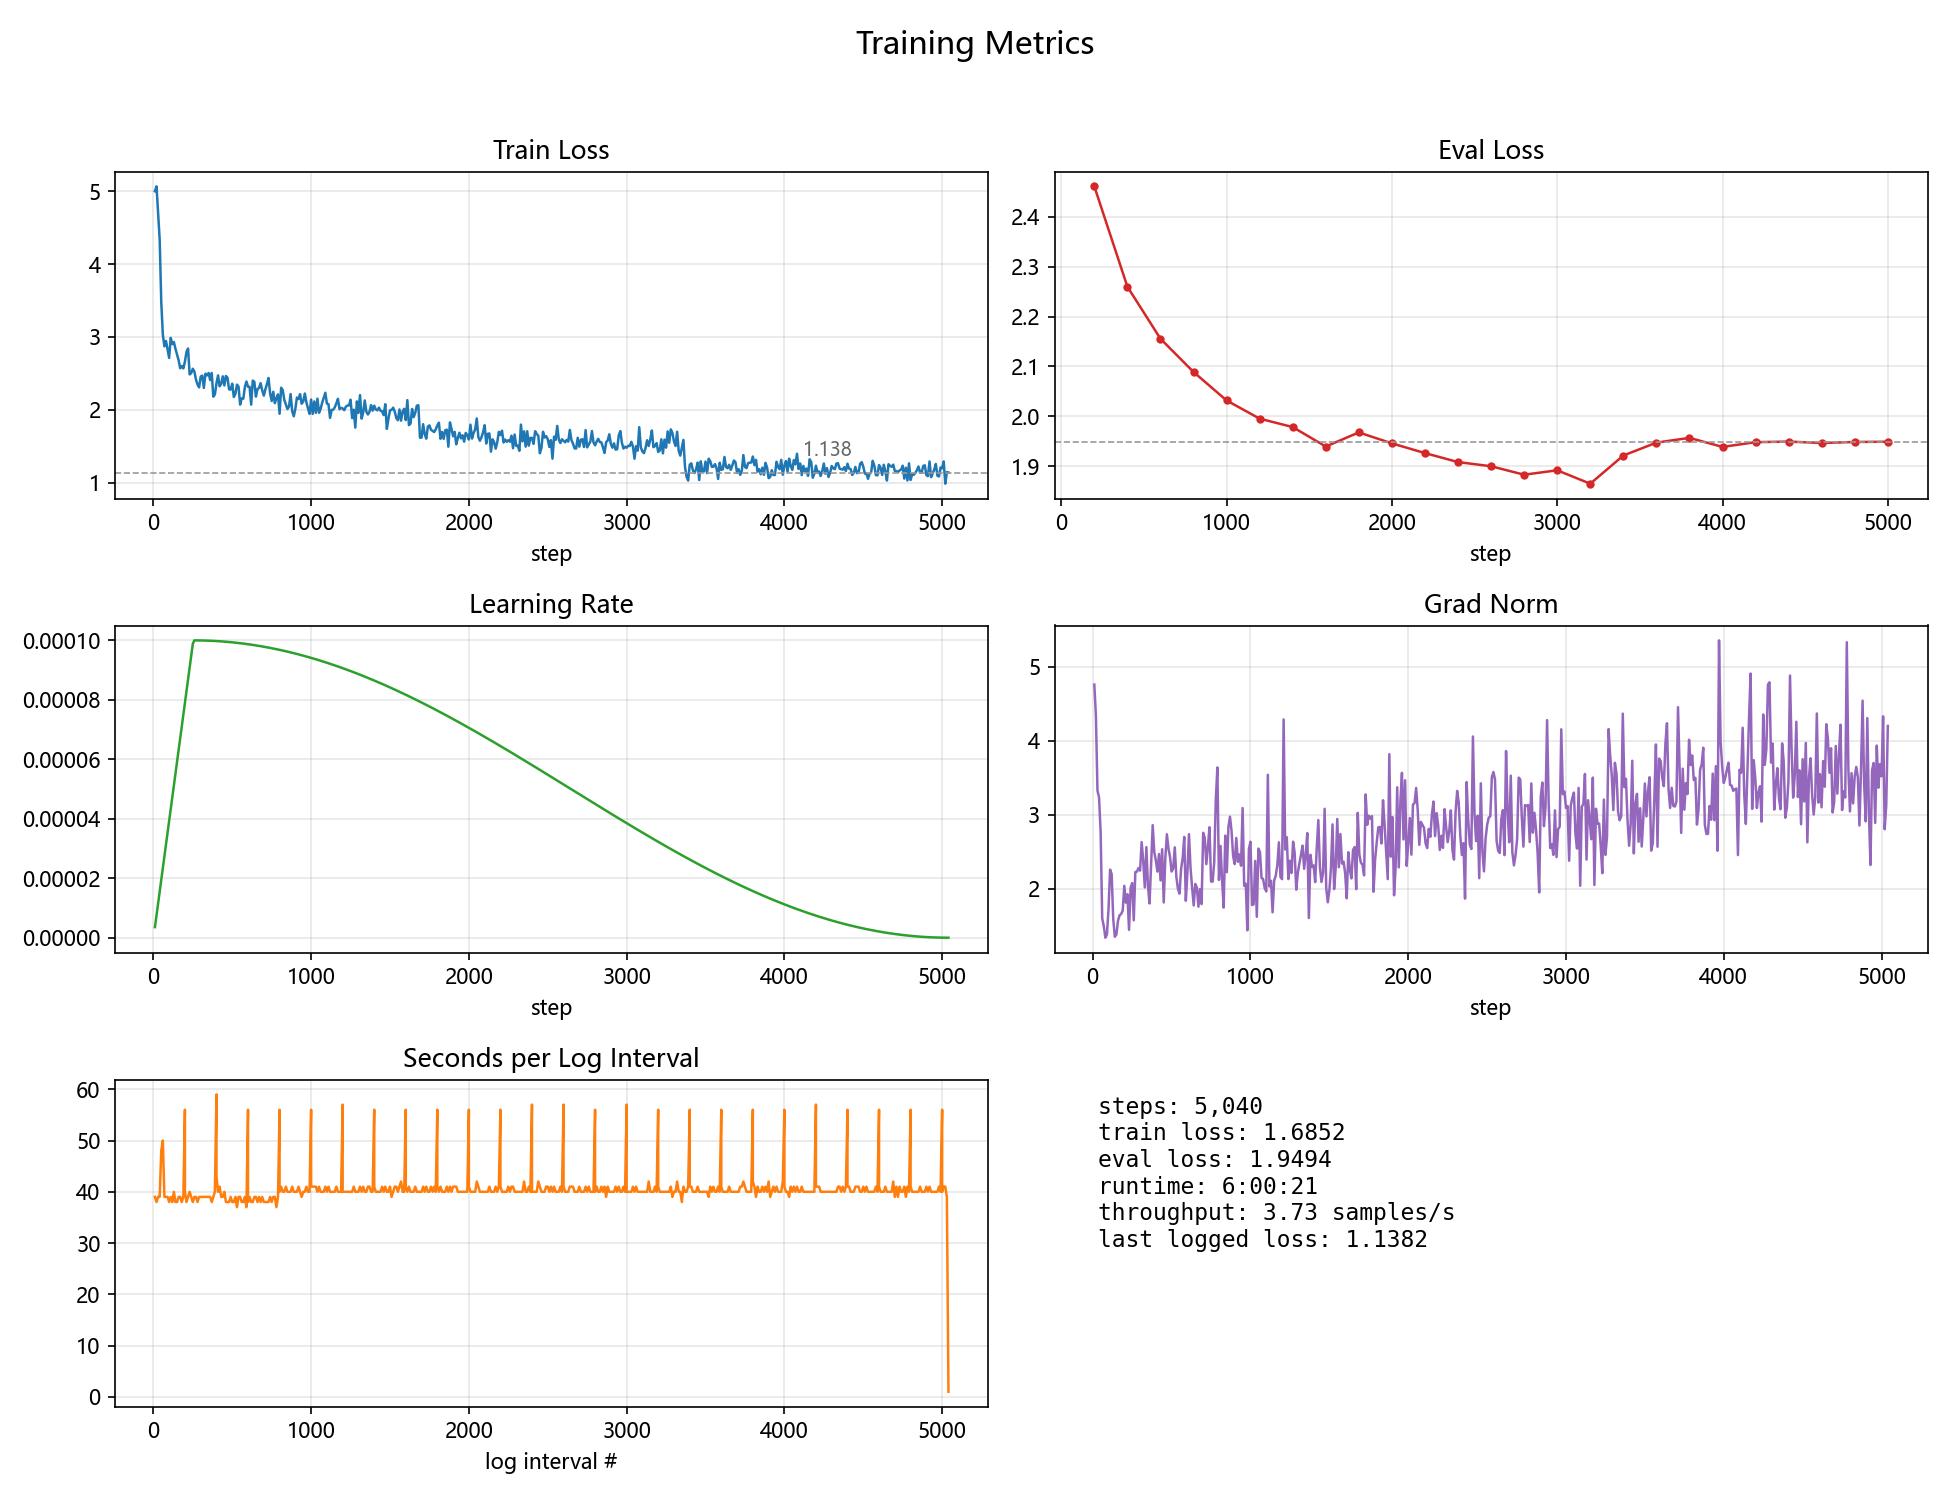
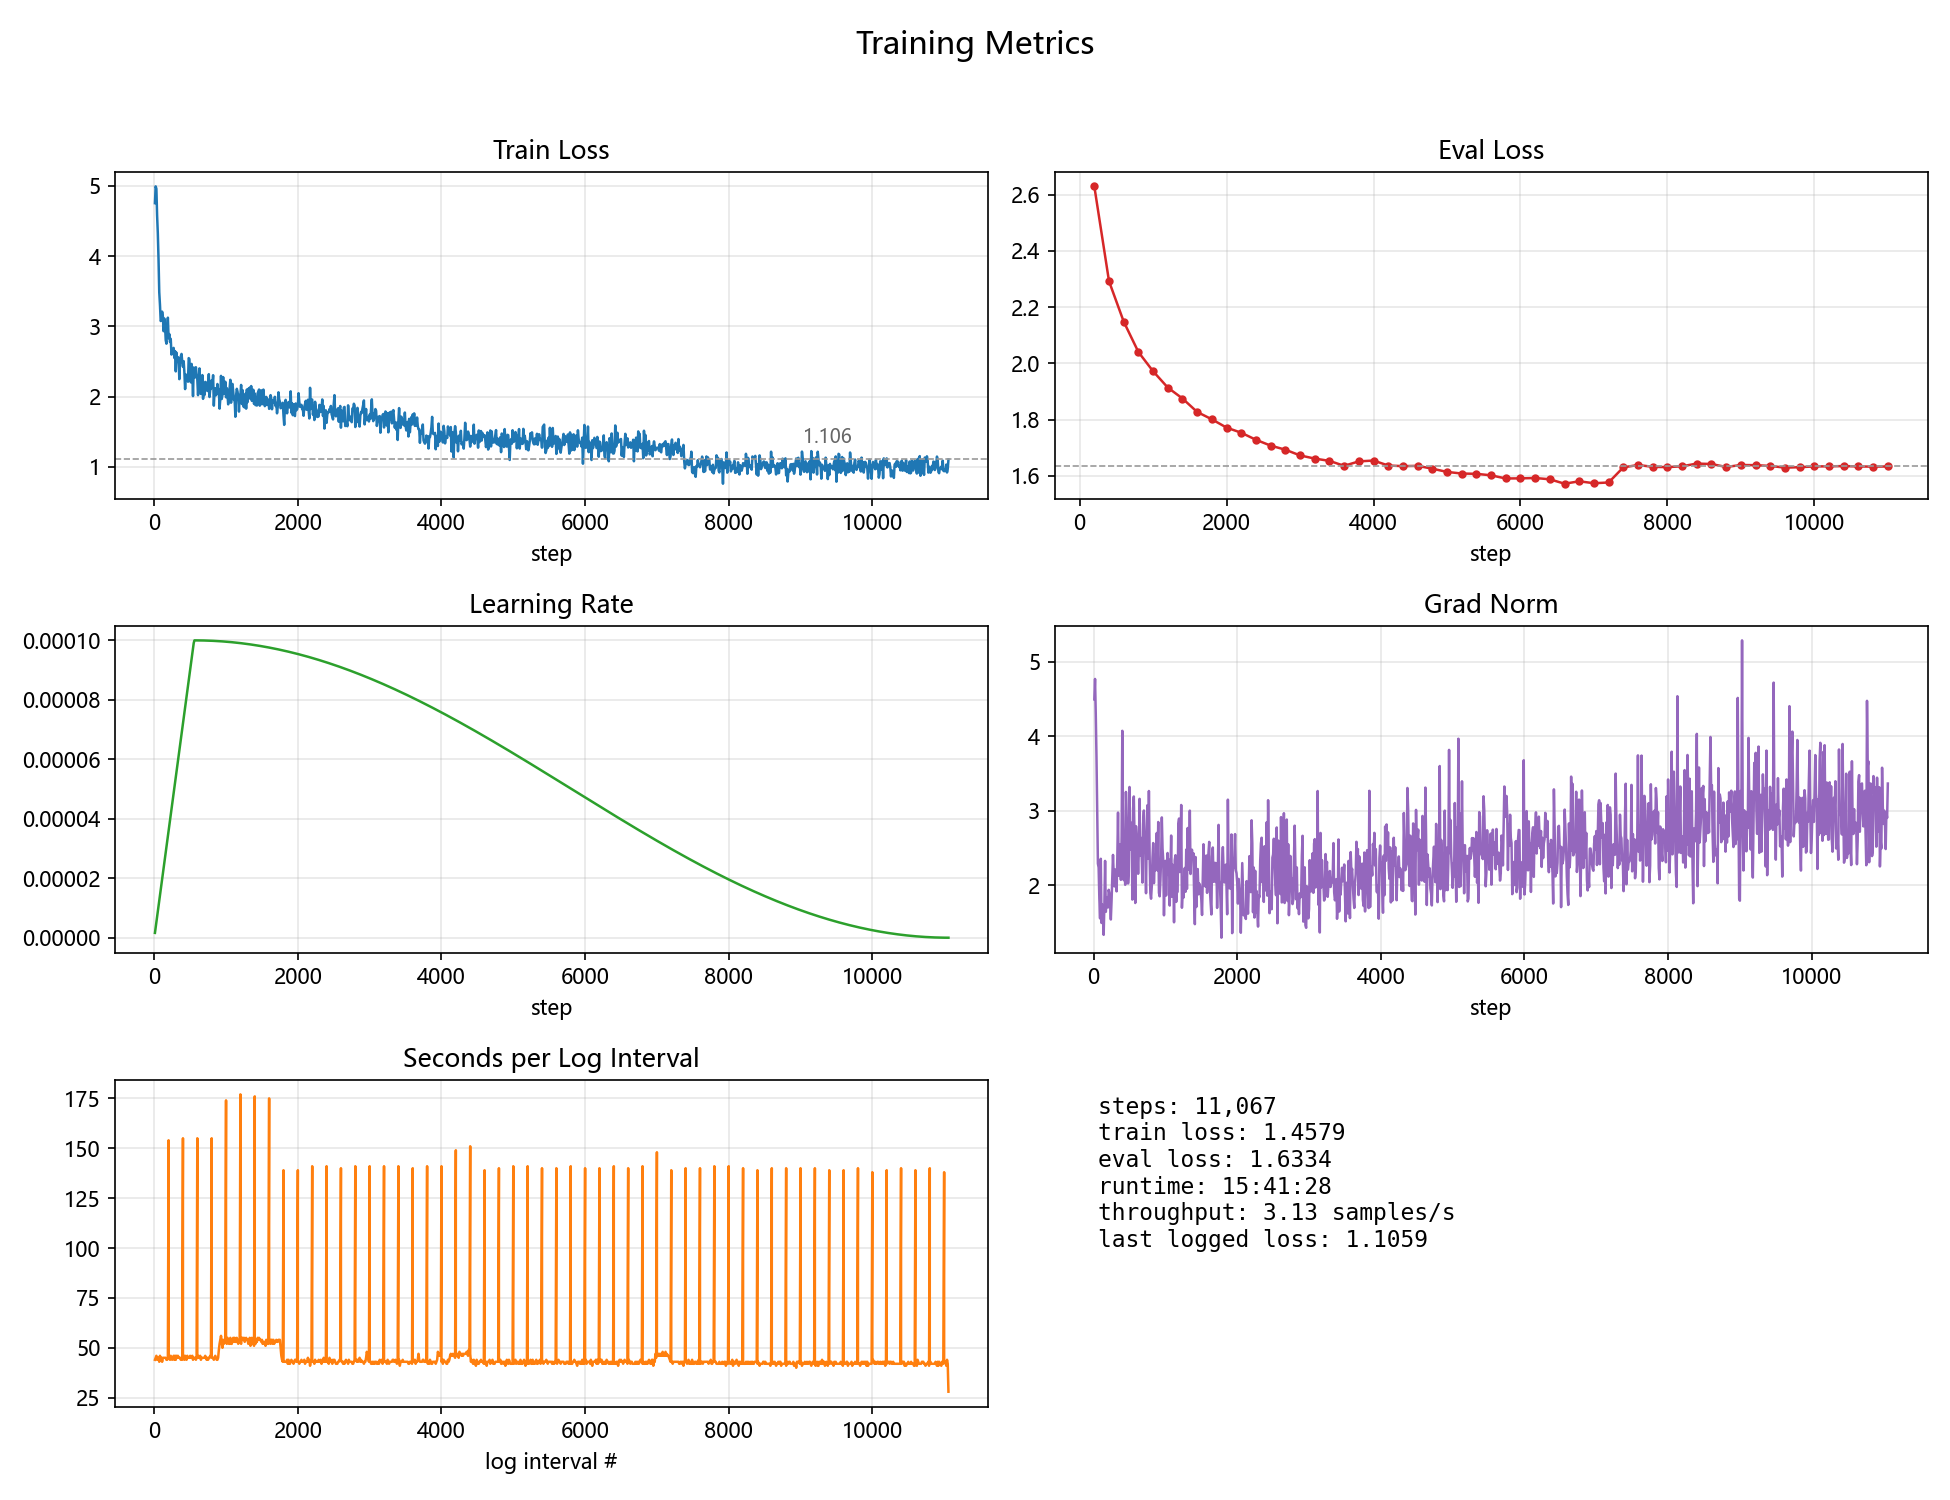
更新文档与模型卡为双游戏训练结果：4B 重训 11067 步 eval 1.633，验证集扩至 10%

diff --git a/scripts/upload_hf.py b/scripts/upload_hf.py
@@ -69,6 +69,8 @@ SIZES = {
         "eval_loss": "2.406",
         "merged_size": "1.13 GB",
         "lora_size": "38.5 MB",
+        "train_samples": "26,875",
+        "eval_samples": "779",
     },
     "1.7b": {
         "base": "Qwen/Qwen3-1.7B",
@@ -82,6 +84,8 @@ SIZES = {
         "eval_loss": "—",
         "merged_size": "—",
         "lora_size": "—",
+        "train_samples": "—",
+        "eval_samples": "—",
     },
     "4b": {
         "base": "Qwen/Qwen3-4B",
@@ -89,12 +93,14 @@ SIZES = {
         "merged_dir": "outputs/qwen3-4b-lora-merged",
         "params": "4B",
         "epochs": 3,
-        "steps": 5040,
+        "steps": 11067,
         "batch": "1 × 16",
-        "runtime": "6 小时",
-        "eval_loss": "1.949",
+        "runtime": "15 小时 41 分",
+        "eval_loss": "1.633",
         "merged_size": "7.51 GB",
         "lora_size": "126.1 MB",
+        "train_samples": "59,018",
+        "eval_samples": "1,858",
     },
     "8b": {
         "base": "Qwen/Qwen3-8B",
@@ -108,6 +114,8 @@ SIZES = {
         "eval_loss": "—",
         "merged_size": "—",
         "lora_size": "—",
+        "train_samples": "—",
+        "eval_samples": "—",
     },
     "14b": {
         "base": "Qwen/Qwen3-14B",
@@ -121,6 +129,8 @@ SIZES = {
         "eval_loss": "—",
         "merged_size": "—",
         "lora_size": "—",
+        "train_samples": "—",
+        "eval_samples": "—",
     },
 }
 
@@ -317,6 +327,8 @@ def main() -> int:
                     eval_loss=spec["eval_loss"],
                     merged_size=spec["merged_size"],
                     lora_size=spec["lora_size"],
+                    train_samples=spec["train_samples"],
+                    eval_samples=spec["eval_samples"],
                 ).encode("utf-8"),
                 path_in_repo="README.md",
                 repo_id=repo_id,

diff --git a/data/build_dataset.py b/data/build_dataset.py
@@ -373,7 +373,7 @@ def main() -> None:
     ap = argparse.ArgumentParser(description="构造《密教模拟器》多任务指令数据集")
     ap.add_argument("--corpus", default=os.path.join(HERE, "corpus"), help="extract.py 的输出目录")
     ap.add_argument("--out", default=os.path.join(HERE, "dataset"), help="数据集输出目录")
-    ap.add_argument("--eval-ratio", type=float, default=0.03, help="验证集比例（按实体 id 划分）")
+    ap.add_argument("--eval-ratio", type=float, default=0.1, help="验证集比例（按实体 id 划分）")
     ap.add_argument("--no-eval", action="store_true", help="不划分验证集，全部用于训练")
     ap.add_argument("--max-chars", type=int, default=DEFAULT_MAX_CHARS, help="单条样本输入+输出的最大字符数")
     args = ap.parse_args()

diff --git a/README.md b/README.md
@@ -2,7 +2,7 @@
 
 ## 1. 简述内容
 
-用《密教模拟器》(Cultist Simulator) 的游戏内文本微调 Qwen3 系列模型，让它学会这个游戏那种晦涩、克制、带书卷气又带点不祥暗示的写法：能写卡牌描述、事件叙事、结局文本，也能做中英互译。已经训练并发布了 0.6B 和 4B 两个尺寸，下载地址见第 8 节。
+用《密教模拟器》(Cultist Simulator) 与《司辰之书》(Book of Hours) 的游戏内文本微调 Qwen3 系列模型，让它学会这两款游戏那种晦涩、克制、带书卷气又带点不祥暗示的写法：能写卡牌描述、事件叙事、结局文本，也能做中英互译。已经训练并发布了 0.6B 和 4B 两个尺寸，下载地址见第 8 节。
 
 语料由脚本从你本地安装的游戏里抽取，不依赖任何联网数据源，仓库里不含任何游戏原文，所以你需要自备游戏本体。代码以 MIT 发布，游戏文本版权归 [Weather Factory](https://weatherfactory.biz/) 所有。
 
@@ -68,18 +68,18 @@ cultist-llm/
 
 司辰之书的中文文件是纯本地化覆盖（只有 id/label/desc），机制字段从英文侧补齐；部分英文文件是 UTF-16 编码，脚本已自动识别。文本里的 `<b>` / `<i>` / `<br>` 富文本标记和 `#PREVIOUSCHARACTERNAME#` 占位符按原样保留，它们就是游戏实际的显示格式。
 
-每条语料中英文各成一条样本，最终 59,018 条训练样本 + 1,858 条验证样本，验证集按实体 id 稳定划分，同一实体的样本不会跨集：
+每条语料中英文各成一条样本，最终 54,683 条训练样本 + 6,210 条验证样本（验证集 10%），验证集按实体 id 稳定划分，同一实体的样本不会跨集：
 
 | 任务 | 样本数 | 说明 |
 | --- | --- | --- |
-| `trans.zh2en` / `trans.en2zh` | 15168 / 15168 | 中英互译 |
-| `continue.zh` | 5204 | 给定开头按原文风格续写 |
-| `gen.recipes.startdescription.*` | 4847 / 4884 | 行动开场叙事（给定行动类型 + 事件名） |
-| `gen.elements.description.*` | 3909 / 2974 | 卡牌描述（给定卡牌名 + 类别 + 主题） |
-| `name.elements.zh` | 2410 | 由主题设计新卡牌名称 |
-| `gen.recipes.description.*` | 2008 / 2018 | 行动结算叙事 |
-| `theme.elements.*` | 658 / 657 | 以准则（灯/铸/刃/冬/心/杯/蛾/启/秘史）为主题创作 |
-| 其余（结局/成就/传承/牌堆/行动说明） | 约 1,000 | 长尾任务 |
+| `trans.zh2en` / `trans.en2zh` | 13547 / 13547 | 中英互译 |
+| `gen.recipes.startdescription.*` | 4357 / 4384 | 行动开场叙事（给定行动类型 + 事件名） |
+| `gen.elements.description.*` | 3513 / 2669 | 卡牌描述（给定卡牌名 + 类别 + 主题） |
+| `continue.zh` | 4664 | 给定开头按原文风格续写 |
+| `name.elements.zh` | 2171 | 由主题设计新卡牌名称 |
+| `gen.recipes.description.*` | 1813 / 1815 | 行动结算叙事 |
+| `theme.elements.*` | 587 / 586 | 以准则（灯/铸/刃/冬/心/杯/蛾/启/秘史）为主题创作 |
+| 其余（结局/成就/传承/牌堆/行动说明） | 1,191 | 长尾任务 |
 
 语料不入库：`data/corpus/` 与 `data/dataset/` 已加入 `.gitignore`，请勿公开分发。
 
@@ -164,14 +164,14 @@ conda run -n llama-factory python infer/generate.py --model ... --prompts my_pro
 | [qwen3_8b_qlora.yaml](configs/qwen3_8b_qlora.yaml) | QLoRA 4bit | 896 | 1×16 | 3 | ~8–10 GB |
 | [qwen3_14b_qlora.yaml](configs/qwen3_14b_qlora.yaml) | QLoRA 4bit | 896 | 1×16 | 3 | ~12–14 GB |
 
-统一设置是 `lora_rank=16` / `alpha=32` / `lora_target=all`，等效 batch 16，`learning_rate=1e-4`，cosine 调度，`bf16` 加梯度检查点，每 epoch 约 3689 步（59,018 条训练样本 ÷ 等效 batch 16）。模板用 `qwen3_nothink`——本任务是风格化文本生成，不需要 Qwen3 的思考链。
+统一设置是 `lora_rank=16` / `alpha=32` / `lora_target=all`，等效 batch 16，`learning_rate=1e-4`，cosine 调度，`bf16` 加梯度检查点，每 epoch 约 3418 步（54,683 条训练样本 ÷ 等效 batch 16）。模板用 `qwen3_nothink`——本任务是风格化文本生成，不需要 Qwen3 的思考链。
 
 训练过程每 10 步打印一次 loss / learning_rate / grad_norm，实时输出到终端，`train_all.ps1` 会另存一份到 `logs\train_<size>.log`。训练结束后自动从 `trainer_state.json` / `trainer_log.jsonl` 生成多面板指标图（训练 loss、验证 loss、学习率、梯度范数、每步耗时），存到 `logs\metrics_<尺寸>.png`，方便分析收敛情况与后续开发：
 
 - [logs/metrics_qwen3-0.6b-lora.png](logs/metrics_qwen3-0.6b-lora.png)
 - [logs/metrics_qwen3-4b-lora.png](logs/metrics_qwen3-4b-lora.png)
 
-`cutoff_len: 896` 是按真实数据定的：59,018 条训练样本的 token 长度最长 768、p99 314、均值 136，896 已覆盖 100%。4B 另开了 `pure_bf16: true`，让 LoRA 分支保持半精度（LLaMA-Factory 默认会降到 float32，显存翻倍）。
+`cutoff_len: 896` 是按真实数据定的：54,683 条训练样本的 token 长度最长 768、p99 314、均值 136，896 已覆盖 100%。4B 另开了 `pure_bf16: true`，让 LoRA 分支保持半精度（LLaMA-Factory 默认会降到 float32，显存翻倍）。
 
 `-Merge` 默认在 CPU 上做，不吃显存；实测 0.6B 合并约 30 秒，产物是单个 bf16 的 `model.safetensors`，可以脱离 LoRA 适配器直接加载。
 
@@ -188,11 +188,11 @@ conda run -n llama-factory python infer/generate.py --model ... --prompts my_pro
 | 尺寸 | 训练步数 | 训练时长 | eval_loss | 合并模型 | LoRA 适配器 |
 | --- | --- | --- | --- | --- | --- |
 | 0.6B | 6720 | 1 小时 22 分 | 2.406 | 1.13 GB | 38.5 MB |
-| 4B | 5040 | 6 小时 | 1.949 | 7.51 GB | 126.1 MB |
+| 4B | 11067 | 15 小时 41 分 | 1.633 | 7.51 GB | 126.1 MB |
 
 两个尺寸的合并模型都用 CPU 加载跑过一遍生成验证，日志在 [`logs/verify_0.6b_merged.log`](logs/verify_0.6b_merged.log) 和 [`logs/verify_4b_merged.log`](logs/verify_4b_merged.log)。效果上 0.6B 格式遵循度一般，4B 的语感和格式遵循度都明显更好，所以推荐用 4B。
 
-验证集是 779 条样本，按实体 id 与训练集隔离，同一实体的样本不会跨集。
+验证集是 6,210 条样本（双游戏各占约一半），按实体 id 与训练集隔离，同一实体的样本不会跨集。
 
 ## 8. 模型下载地址
 

diff --git a/templates/model_card.md b/templates/model_card.md
@@ -20,7 +20,7 @@ tags:
 
 # cultist-simulator-qwen3-{size}
 
-用《密教模拟器》(Cultist Simulator) 的游戏内文本微调 [{base}](https://huggingface.co/{base}) 得到的 {params} 文本生成模型。目标是让它学会这个游戏那种晦涩、克制、带书卷气又带点不祥暗示的写法，能写卡牌描述、事件叙事、结局文本，也能做中英互译。生成的文字可以直接拿去当同人创作、跑团素材或模组草稿。
+用《密教模拟器》(Cultist Simulator) 与《司辰之书》(Book of Hours) 的游戏内文本微调 [{base}](https://huggingface.co/{base}) 得到的 {params} 文本生成模型。目标是让它学会这两款游戏那种晦涩、克制、带书卷气又带点不祥暗示的写法，能写卡牌描述、事件叙事、结局文本，也能做中英互译。生成的文字可以直接拿去当同人创作、跑团素材或模组草稿。
 
 ## 模型详情
 
@@ -34,7 +34,7 @@ tags:
 | --- | --- |
 | 基座模型 | [{base}](https://huggingface.co/{base}) |
 | 微调方式 | LoRA（`r=16`，`alpha=32`，作用于 q/k/v/o/gate/up/down 全部投影层） |
-| 训练样本 | 26,875 条（验证集 779 条，按实体 id 稳定划分） |
+| 训练样本 | {train_samples} 条（验证集 {eval_samples} 条，按实体 id 稳定划分） |
 | 训练轮数 | {epochs} epoch / {steps} 步 |
 | 等效 batch | {batch}（`per_device × 梯度累积` = 16） |
 | 截断长度 | 896 |
@@ -72,8 +72,8 @@ tok = AutoTokenizer.from_pretrained(repo)
 model = AutoModelForCausalLM.from_pretrained(repo, dtype="bfloat16", device_map="auto")
 
 system = (
-    "你是《密教模拟器》（Cultist Simulator）的文本生成模型。"
-    "你精通该游戏晦涩、克制、带着书卷气与不祥暗示的文风，"
+    "你是《密教模拟器》（Cultist Simulator）与《司辰之书》（Book of Hours）的文本生成模型。"
+    "你精通这两款游戏晦涩、克制、带着书卷气与不祥暗示的文风，"
     "能够按给定的题材、类别和主题创作中文与英文游戏文本，也能在中英文之间准确互译。"
 )
 user = "为《密教模拟器》中的一张卡牌撰写描述文本。\\n\\n语言：中文\\n卡牌名称：无光的陈列室\\n类别：地点\\n主题：冬、灯"
@@ -117,11 +117,11 @@ ollama run cultist-{params}
 - 4B：`The light leaks through <b>cracks</b>. My mind is <b>clearer</b> than it's been <b>in any other time</b>.` ✅ 标记完整保留
 - 0.6B：`Light leaks through a Crack in the Skin. My brain is clearer than ever at any given time.` ❌ 标记全丢
 
-> eval_loss 也印证这个差距：4B 1.949 vs 0.6B 2.406。
+> eval_loss 也印证这个差距：4B 1.633 vs 0.6B 2.406。
 
 ## 数据来源与使用限制
 
-训练语料全部抽取自《密教模拟器》游戏本体，版权归 Weather Factory 所有，中文文本来自游戏的官方简体中文资源。基座模型 {base} 采用 Apache-2.0 协议，本仓库的权重是它的微调衍生品。
+训练语料全部抽取自《密教模拟器》与《司辰之书》两款游戏本体，版权归 Weather Factory 所有，中文文本来自游戏的官方简体中文资源。基座模型 {base} 采用 Apache-2.0 协议，本仓库的权重是它的微调衍生品。
 
 请只把本模型用于个人学习、同人创作这类非商业用途。模型生成的内容有可能重现或近似游戏原文，公开发布生成结果时请遵守游戏原作者的授权条款并注明题材来源。另外它只学了文风和文本结构，并不理解也不会执行游戏机制，生成内容不保证与官方设定一致。
 
